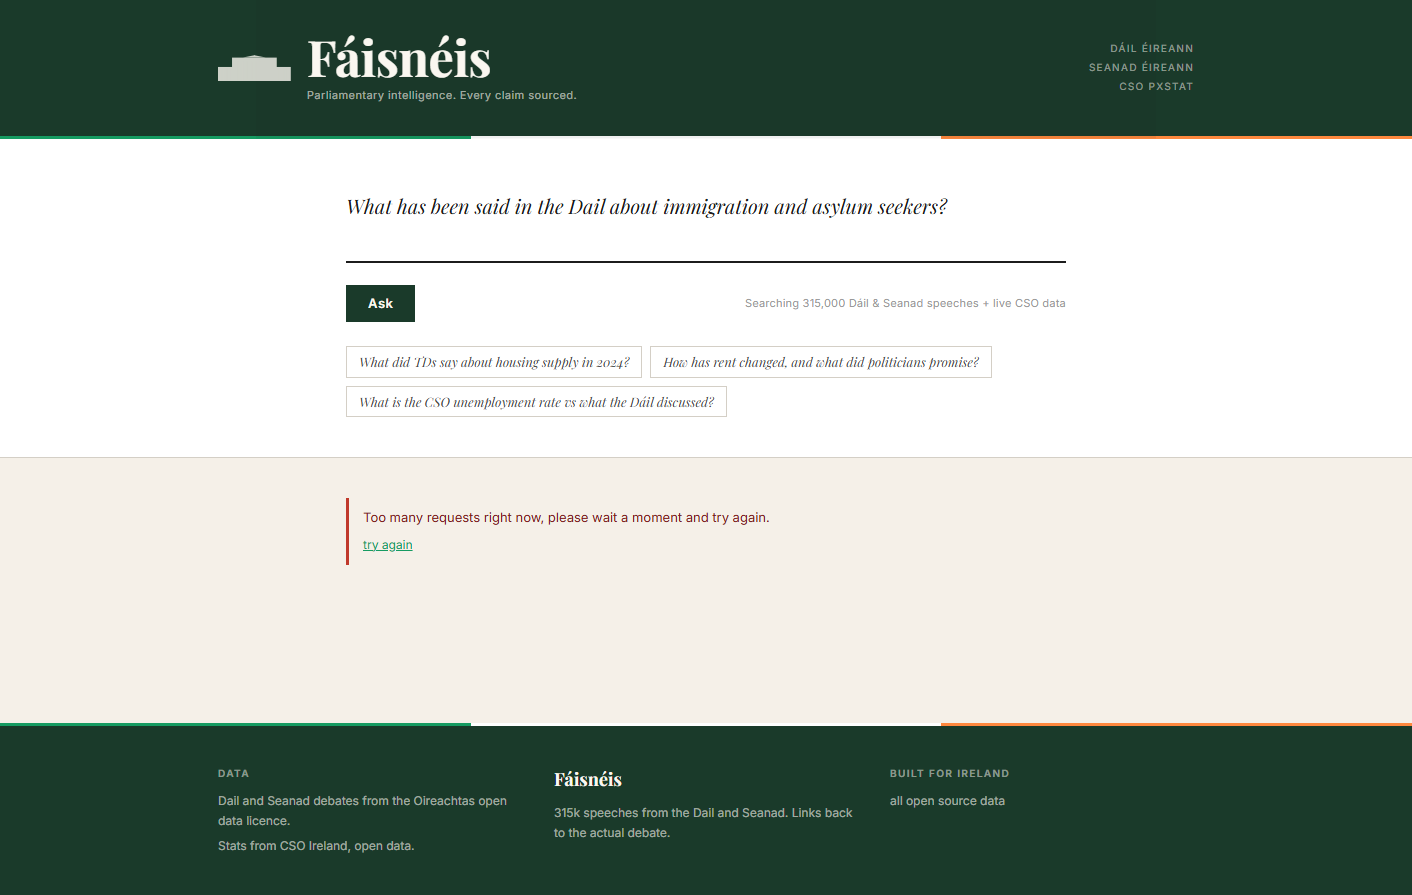
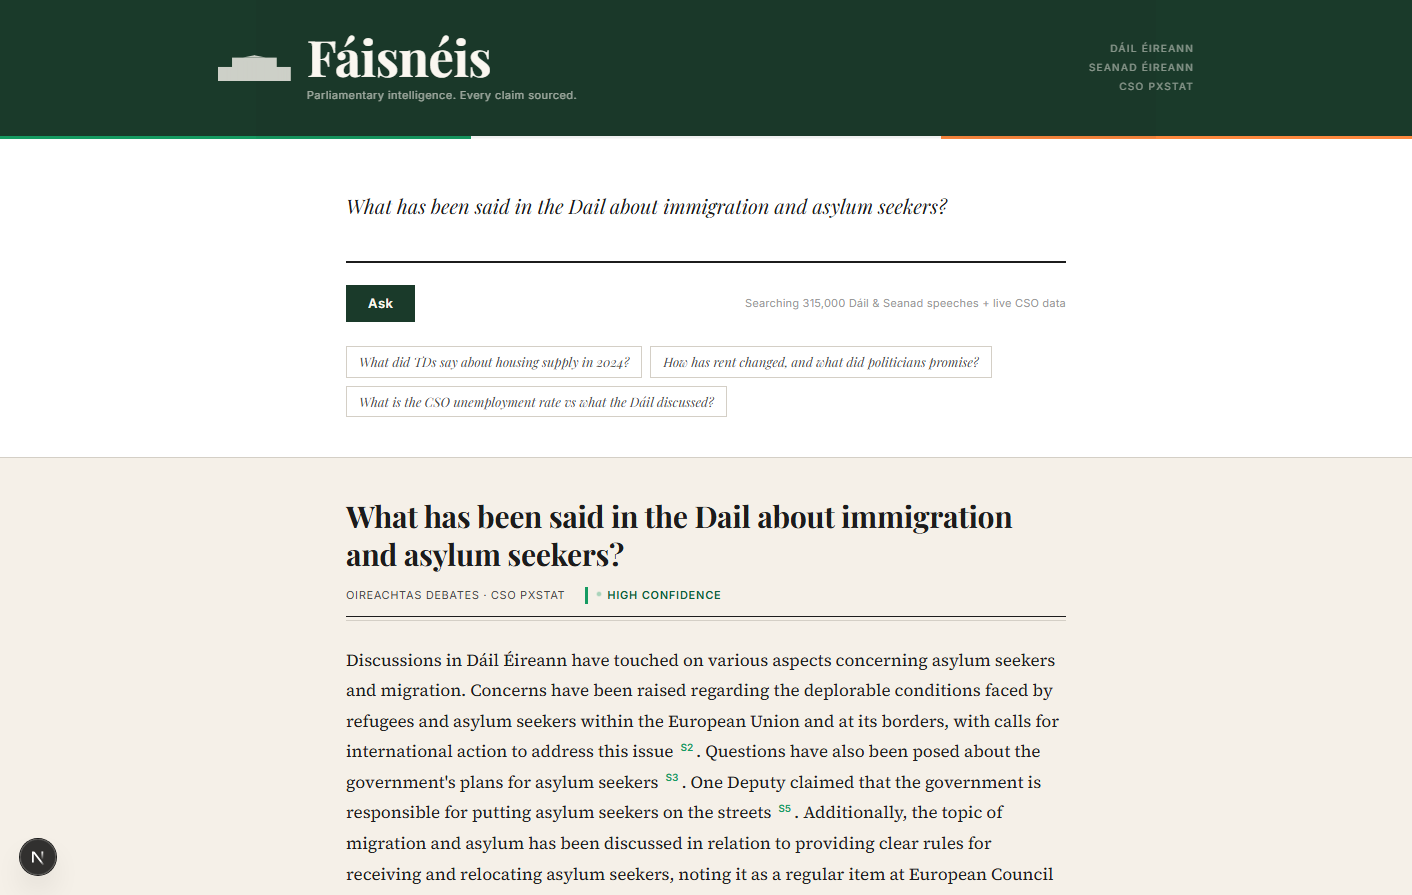
screenshots

diff --git a/backend/app/main.py b/backend/app/main.py
@@ -23,7 +23,7 @@ _CACHE_TTL = 7200
 def _cache_key(q: str) -> str:
     return re.sub(r"\s+", " ", q.lower().strip())
 
-_origins = ["http://localhost:3000"]
+_origins = ["http://localhost:3000", "http://localhost:3001"]
 if settings.allowed_origins:
     _origins += [o.strip() for o in settings.allowed_origins.split(",") if o.strip()]
 

diff --git a/README.md b/README.md
@@ -56,6 +56,12 @@ Good example of cross-party coverage. Joe Flaherty, Pearse Doherty, Mary Lou McD
 
 A more niche subject that shows the search still finds relevant debates even when it's not a hot-button topic. Norma Foley, Simon Harris, and Colm Brophy all came up.
 
+### CSO chart alongside the answer
+
+![Unemployment rate with chart](Screenshots/q-unemployment-chart.png)
+
+When a question has a statistical angle the app fetches live CSO data and draws a chart. This one pulled the monthly unemployment series from CSO PxStat and plotted it next to the Dail speeches on the same topic.
+
 ---
 
 ### Infrastructure